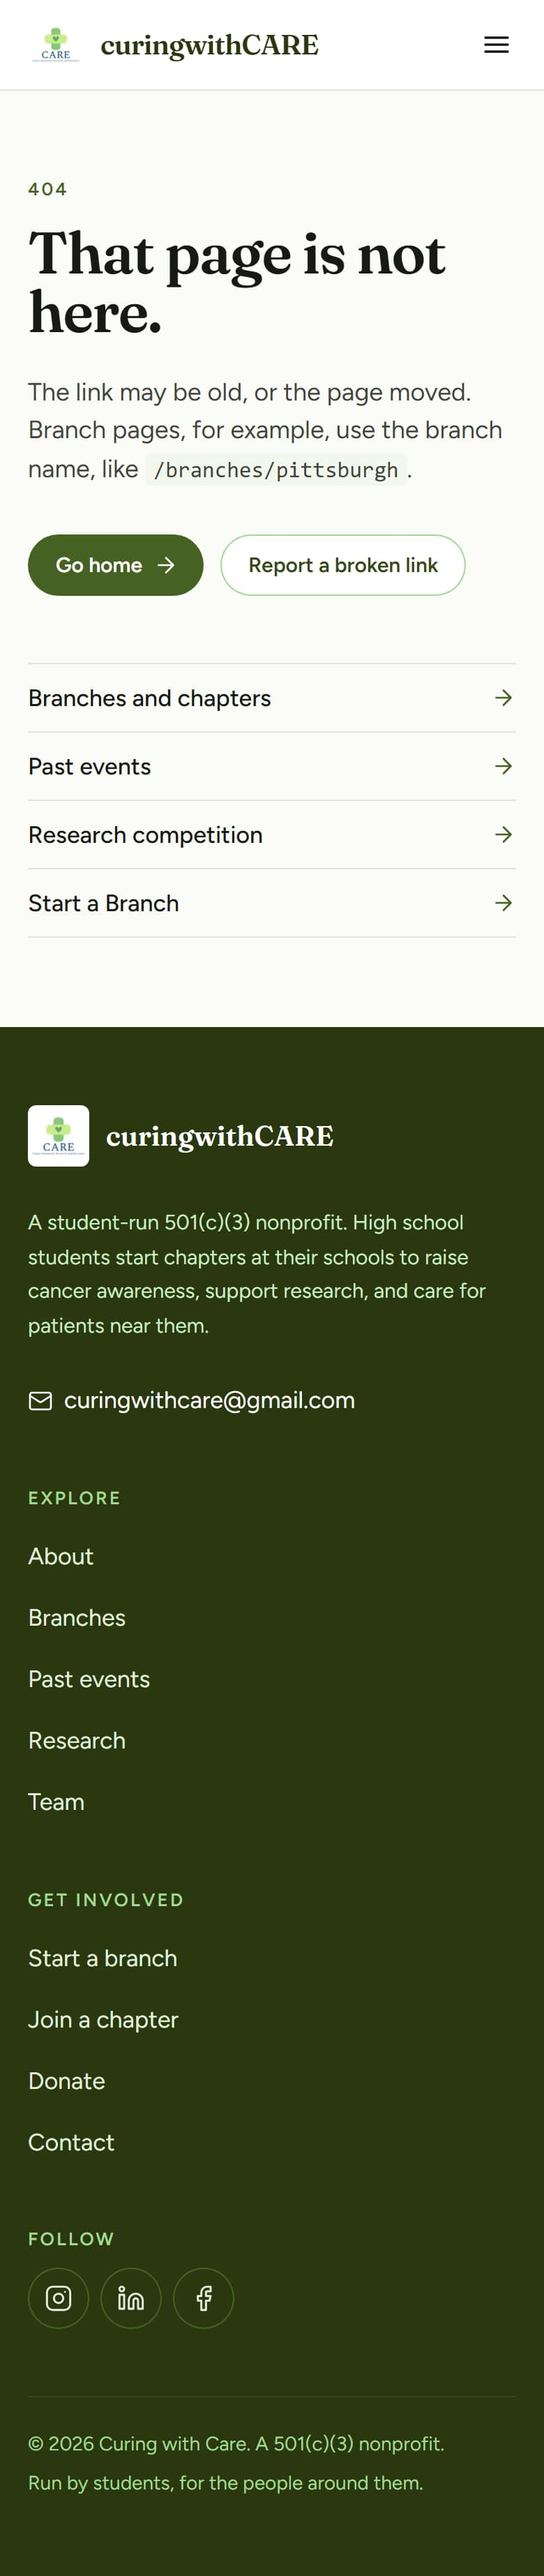
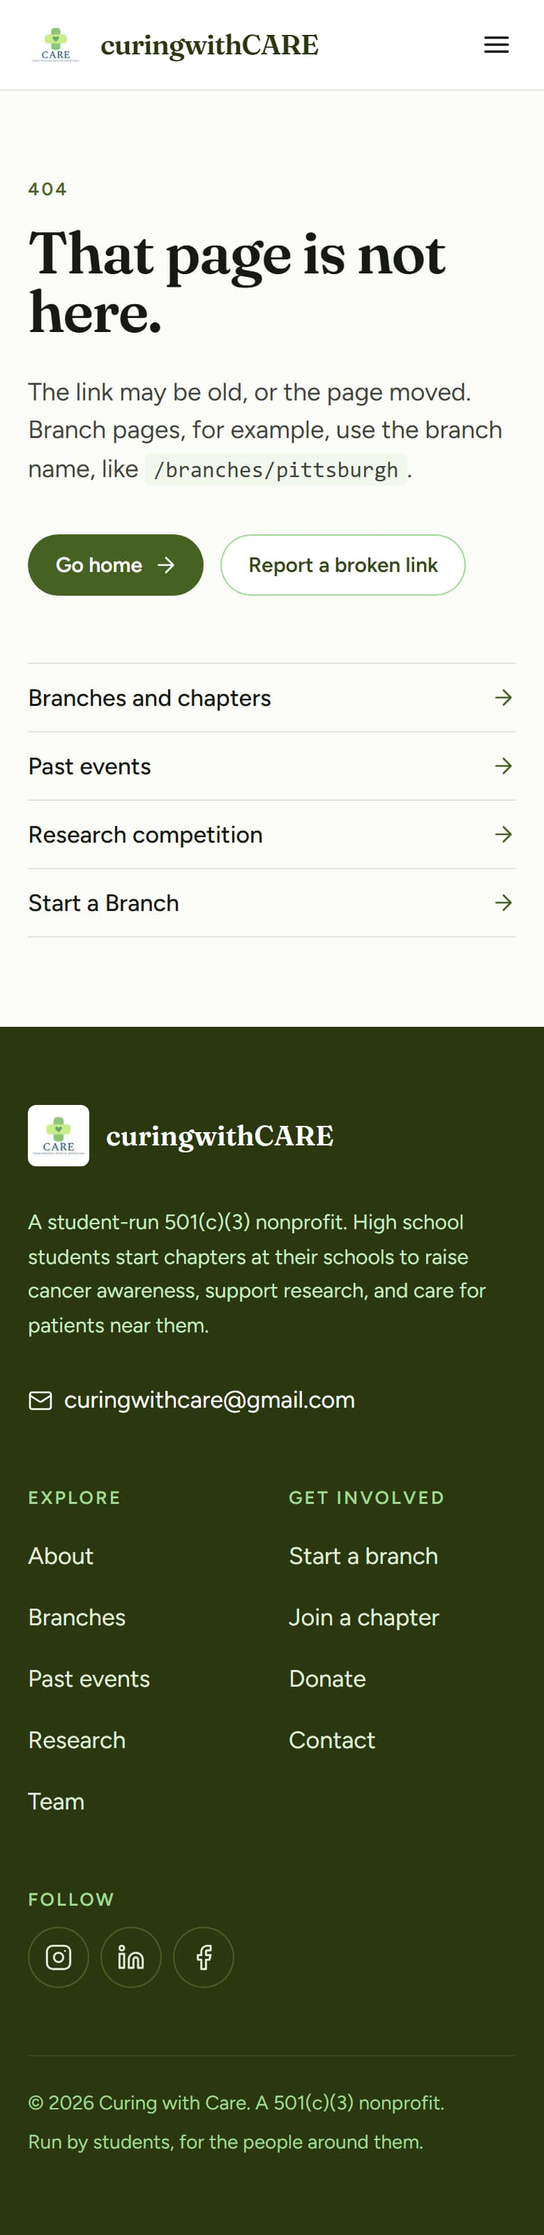
Polish card and phone layouts for iPhone widths
Two-column stat rows, photo-beside-text rows on phones for the home
pillars, Start a Branch steps and event ideas, side-by-side footer
link columns, a stacked honorable-mentions list instead of a
horizontally scrolling table, a shorter phone hero, and safe-area
padding with viewport-fit=cover. Checked at 375, 390 and 430 px with
no overflow and zero axe violations; after-screenshots refreshed.

diff --git a/pages/start-a-branch.js b/pages/start-a-branch.js
@@ -107,7 +107,7 @@ export default function StartABranch({ stats }) {
             </div>
             <ol className="lg:col-span-8 divide-y divide-line">
               {steps.map((s, i) => (
-                <Reveal as="li" key={s.title} delay={i * 60} className="grid gap-4 py-7 first:pt-0 last:pb-0 sm:grid-cols-[3.5rem_1fr]">
+                <Reveal as="li" key={s.title} delay={i * 60} className="grid grid-cols-[3rem_1fr] gap-3 py-7 first:pt-0 last:pb-0 sm:grid-cols-[3.5rem_1fr] sm:gap-4">
                   <span className="font-display text-stat font-semibold leading-none text-care-600" aria-hidden="true">{i + 1}</span>
                   <div>
                     <h3 className="font-display text-h3 font-semibold text-ink">{s.title}</h3>
@@ -123,13 +123,13 @@ export default function StartABranch({ stats }) {
       <Section tone="tint">
         <Container>
           <SectionHeading eyebrow="What you'd actually do" title="A year in a chapter looks like this." lead="Real events chapters have run. Pick two or three for your first year." />
-          <ul className="mt-10 grid gap-6 sm:grid-cols-2 lg:grid-cols-4">
+          <ul className="mt-10 grid gap-4 sm:grid-cols-2 sm:gap-6 lg:grid-cols-4">
             {ideas.map((idea, i) => (
-              <Reveal as="li" key={idea.title} delay={i * 60} className="overflow-hidden rounded-card bg-white shadow-card">
-                <div className="relative aspect-[4/3]">
-                  <Image src={idea.photo.src} alt={idea.photo.alt} fill sizes="(min-width: 1024px) 25vw, (min-width: 640px) 50vw, 100vw" className="object-cover" placeholder="blur" />
+              <Reveal as="li" key={idea.title} delay={i * 60} className="grid grid-cols-[7rem_1fr] overflow-hidden rounded-card bg-white shadow-card sm:grid-cols-1">
+                <div className="relative min-h-28 sm:aspect-[4/3]">
+                  <Image src={idea.photo.src} alt={idea.photo.alt} fill sizes="(min-width: 1024px) 25vw, (min-width: 640px) 50vw, 30vw" className="object-cover" placeholder="blur" />
                 </div>
-                <div className="p-5">
+                <div className="p-4 sm:p-5">
                   <h3 className="font-display text-h3 font-semibold text-ink">{idea.title}</h3>
                   <p className="mt-2 text-[0.9375rem] text-ink-2">{idea.text}</p>
                 </div>

diff --git a/pages/index.js b/pages/index.js
@@ -44,7 +44,7 @@ export default function Home({ stats, countries }) {
       <SiteHead path="/" />
 
       {/* 1. Hero: one real photo, one headline, one primary action. */}
-      <section className="relative isolate flex min-h-[84svh] items-end overflow-hidden bg-care-900 text-white">
+      <section className="relative isolate flex min-h-[72svh] items-end overflow-hidden bg-care-900 text-white md:min-h-[84svh]">
         <Image
           src={photos.clubRushTable.src}
           alt={photos.clubRushTable.alt}
@@ -56,7 +56,7 @@ export default function Home({ stats, countries }) {
           className="object-cover object-[55%_20%]"
         />
         <div className="absolute inset-0 bg-gradient-to-t from-care-900/95 via-care-900/55 via-35% to-transparent to-70%" aria-hidden="true" />
-        <Container className="relative pb-14 pt-40 md:pb-20 md:pt-56">
+        <Container className="relative pb-12 pt-32 md:pb-20 md:pt-56">
           <p className="text-eyebrow text-care-200">A student-run 501(c)(3) nonprofit</p>
           <h1 className="font-display text-h1 mt-4 max-w-2xl font-semibold">
             Cancer awareness, run by the students next door.
@@ -110,8 +110,8 @@ export default function Home({ stats, countries }) {
             </div>
             <ul className="divide-y divide-line lg:col-span-7">
               {pillars.map((p, i) => (
-                <Reveal as="li" key={p.title} delay={i * 60} className="grid gap-5 py-8 first:pt-0 last:pb-0 sm:grid-cols-[7rem_1fr] sm:gap-7">
-                  <div className="relative aspect-square w-28 overflow-hidden rounded-card">
+                <Reveal as="li" key={p.title} delay={i * 60} className="grid grid-cols-[5.5rem_1fr] gap-4 py-7 first:pt-0 last:pb-0 sm:grid-cols-[7rem_1fr] sm:gap-7 sm:py-8">
+                  <div className="relative aspect-square w-22 overflow-hidden rounded-card sm:w-28">
                     <Image src={p.photo.src} alt={p.photo.alt} fill sizes="112px" className="object-cover" placeholder="blur" />
                   </div>
                   <div>

diff --git a/pages/research-competition.js b/pages/research-competition.js
@@ -102,24 +102,14 @@ export default function ResearchCompetition() {
       <Section tone="paper">
         <Container>
           <SectionHeading eyebrow="Honorable mentions" title="Every other paper that placed." />
-          <div className="mt-8 overflow-x-auto rounded-sm" tabIndex={0} role="region" aria-label="Honorable mentions, scrollable table">
-            <table className="w-full min-w-[32rem] border-collapse text-left">
-              <thead>
-                <tr className="border-b-2 border-care-200 text-eyebrow text-care-700">
-                  <th scope="col" className="py-3 pr-4 font-semibold">Paper</th>
-                  <th scope="col" className="py-3 font-semibold">Authors</th>
-                </tr>
-              </thead>
-              <tbody className="divide-y divide-line">
-                {honorableMentions.map((p) => (
-                  <tr key={p.title}>
-                    <td className="py-4 pr-4 font-medium text-ink">{p.title}</td>
-                    <td className="py-4 text-ink-2">{p.author}</td>
-                  </tr>
-                ))}
-              </tbody>
-            </table>
-          </div>
+          <ul className="mt-8 divide-y divide-line border-y border-line">
+            {honorableMentions.map((p) => (
+              <li key={p.title} className="grid gap-1 py-4 md:grid-cols-12 md:gap-6">
+                <p className="font-medium text-ink md:col-span-8">{p.title}</p>
+                <p className="text-ink-2 md:col-span-4">{p.author}</p>
+              </li>
+            ))}
+          </ul>
         </Container>
       </Section>
 

diff --git a/src/shared/components/Stat.js b/src/shared/components/Stat.js
@@ -6,18 +6,18 @@ export function Stat({ value, label, note, dark = false, className = "" }) {
   return (
     <div className={className}>
       <p className={`font-display font-semibold text-stat ${dark ? "text-white" : "text-care-800"}`}>{value}</p>
-      <p className={`mt-3 text-lg font-medium ${dark ? "text-care-100" : "text-ink"}`}>{label}</p>
-      {note && <p className={`mt-1 text-sm ${dark ? "text-care-300" : "text-muted"}`}>{note}</p>}
+      <p className={`mt-2 text-base font-medium sm:mt-3 sm:text-lg ${dark ? "text-care-100" : "text-ink"}`}>{label}</p>
+      {note && <p className={`mt-1 text-xs sm:text-sm ${dark ? "text-care-300" : "text-muted"}`}>{note}</p>}
     </div>
   );
 }
 
 export function StatRow({ stats, dark = false, columns = 4 }) {
-  const cols = { 2: "sm:grid-cols-2", 3: "sm:grid-cols-3", 4: "sm:grid-cols-2 lg:grid-cols-4" }[columns] || "sm:grid-cols-2 lg:grid-cols-4";
+  const cols = { 2: "grid-cols-2", 3: "grid-cols-2 sm:grid-cols-3", 4: "grid-cols-2 lg:grid-cols-4" }[columns] || "grid-cols-2 lg:grid-cols-4";
   return (
-    <ul className={`grid grid-cols-1 gap-10 ${cols} md:gap-8`}>
+    <ul className={`grid gap-x-5 gap-y-8 ${cols} md:gap-8`}>
       {stats.map((s) => (
-        <li key={s.label} className={`border-t pt-6 ${dark ? "border-care-700" : "border-care-200"}`}>
+        <li key={s.label} className={`border-t pt-4 sm:pt-6 ${dark ? "border-care-700" : "border-care-200"}`}>
           <Stat value={s.value} label={s.label} note={s.note} dark={dark} />
         </li>
       ))}

diff --git a/src/shared/components/Footer.js b/src/shared/components/Footer.js
@@ -45,8 +45,8 @@ export default function Footer() {
   return (
     <footer className="bg-care-900 text-care-100">
       <Container className="py-14 md:py-20">
-        <div className="grid gap-10 md:grid-cols-12">
-          <div className="md:col-span-5">
+        <div className="grid grid-cols-2 gap-x-6 gap-y-10 md:grid-cols-12">
+          <div className="col-span-2 md:col-span-5">
             <Link href="/" className="inline-flex items-center gap-3 rounded-md">
               <Image src="/logo.png" alt="" width={44} height={44} className="h-11 w-11 rounded-md" />
               <span className="font-display text-xl font-semibold text-white">{site.wordmark}</span>
@@ -92,7 +92,7 @@ export default function Footer() {
             </ul>
           </nav>
 
-          <div className="md:col-span-2">
+          <div className="col-span-2 md:col-span-2">
             <h2 className="text-eyebrow text-care-300">Follow</h2>
             <ul className="mt-3 flex gap-2">
               {socials.map((s) => (

diff --git a/pages/research.js b/pages/research.js
@@ -128,7 +128,7 @@ export default function Research() {
               </h2>
               <p className="mt-2 text-ink-2">A solutions challenge for high schoolers on cancer prevention, access to care, education and policy.</p>
             </div>
-            <Icon name="arrow-right" size={24} className="shrink-0 text-care-700 transition-transform group-hover:translate-x-1" />
+            <Icon name="arrow-right" size={24} className="hidden shrink-0 text-care-700 transition-transform group-hover:translate-x-1 sm:block" />
           </Link>
         </Container>
       </Section>

diff --git a/pages/_app.js b/pages/_app.js
@@ -8,7 +8,7 @@ export default function CareApp({ Component, pageProps }) {
   return (
     <div className={`${fontClassName} flex min-h-screen flex-col font-sans`}>
       <Head>
-        <meta name="viewport" content="width=device-width, initial-scale=1" />
+        <meta name="viewport" content="width=device-width, initial-scale=1, viewport-fit=cover" />
         <meta name="theme-color" content="#466222" />
         <link rel="icon" href="/favicon.ico" />
       </Head>

diff --git a/src/shared/globals.css b/src/shared/globals.css
@@ -88,6 +88,8 @@
   }
 
   body {
+    padding-left: env(safe-area-inset-left);
+    padding-right: env(safe-area-inset-right);
     background: var(--color-paper);
     color: var(--color-ink);
     font-family: var(--font-sans);

diff --git a/REVAMP_PROGRESS.md b/REVAMP_PROGRESS.md
@@ -118,7 +118,7 @@ Every page: one clear purpose, a strong first section with a real photo where on
 - **Lint**: `npm run lint` → 0 errors, 0 warnings. **Build**: `npm run build` → passes; 29 pages prerendered (`/`, `/about`, `/branches`, `/start-a-branch` and the 16 branch pages are SSG; the rest static).
 - **Screenshots**: `docs/revamp/before/` (old site, desktop 1440 and phone 390, full page) and `docs/revamp/after/` (new site, same views, from the production build). The Supabase sections show loading or fallback states in both because no keys were available locally.
 - **Accessibility**: axe-core (WCAG 2.1 A/AA + best practice) on all 13 routes at desktop and phone: **0 violations on 26 of 26**. Tab order lands on the skip link, logo, then nav links with a visible 3px focus ring. Mobile menu: solid white panel, `aria-expanded`, focus moves into it, Escape closes and returns focus to the toggle, tapping a link navigates and closes it, page scroll is locked while open. Every image has alt text (descriptive for photos, empty for decorative). Contrast: body ink on paper 16:1, action green on white 6.9:1, white on dark green bands 12:1.
-- **No horizontal overflow** on any route at 390px.
+- **No horizontal overflow** on any route at 375, 390 or 430 px (iPhone SE, 14/15 and Pro Max widths), checked after a phone polish pass on 2026-10-08: stats in two columns, photo-beside-text rows for the home pillars, Start a Branch steps and event ideas, side-by-side footer columns, a stacked honorable-mentions list instead of a scrolling table, a shorter phone hero, and `viewport-fit=cover` with safe-area padding for notched iPhones.
 - **Links and routes**: every internal link from every page returns 200; all 16 old branch slugs, `/caac`, `/events`, `/research-competition`, `/research-competition-2`, `/team`, the research PDF and the logo still resolve. External links (Zeffy, Google Form, Instagram, LinkedIn, Facebook, hshrf.org) respond 200. The only non-200 is the site's own domain (see open question 1).
 - **Lighthouse 12** (production build, local, `--only-categories` perf/a11y/best-practices/seo; mobile = default throttled Moto G Power, desktop = `--preset=desktop`):
 
